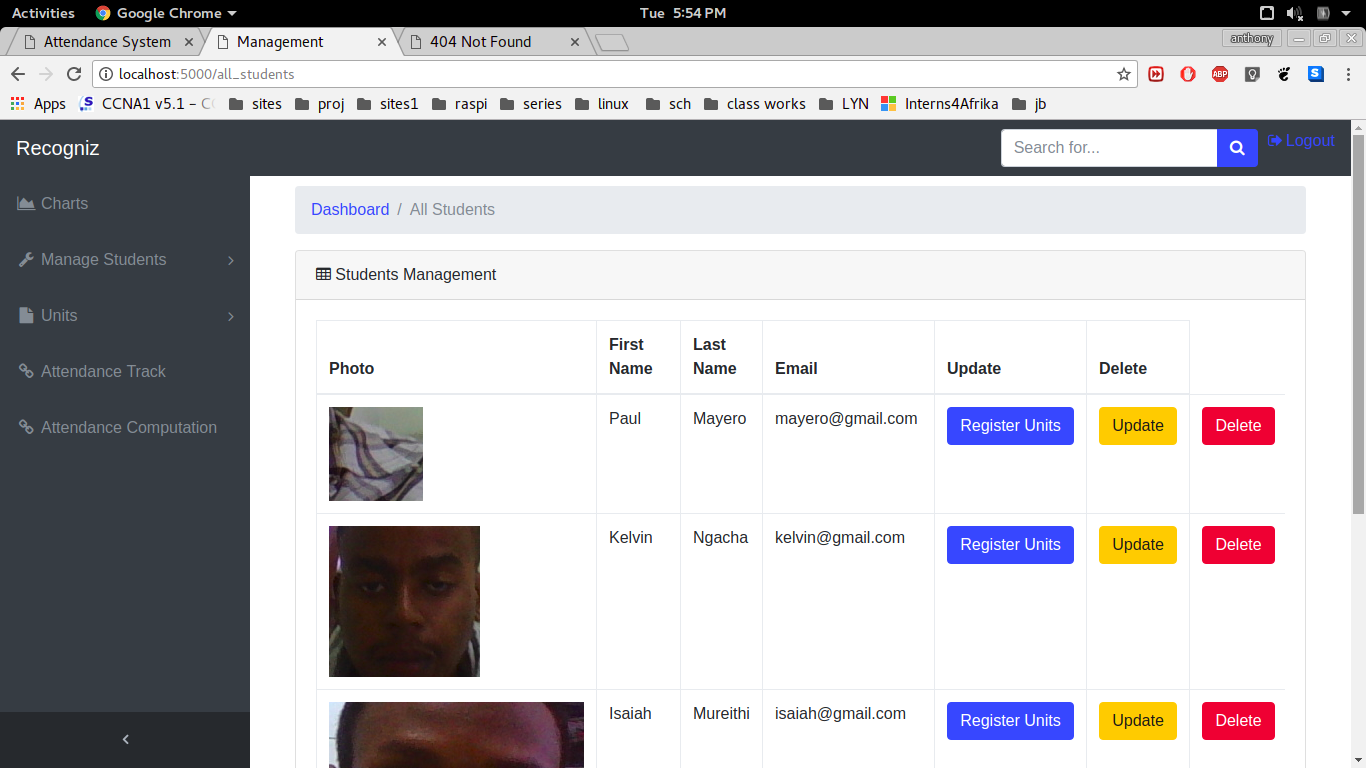
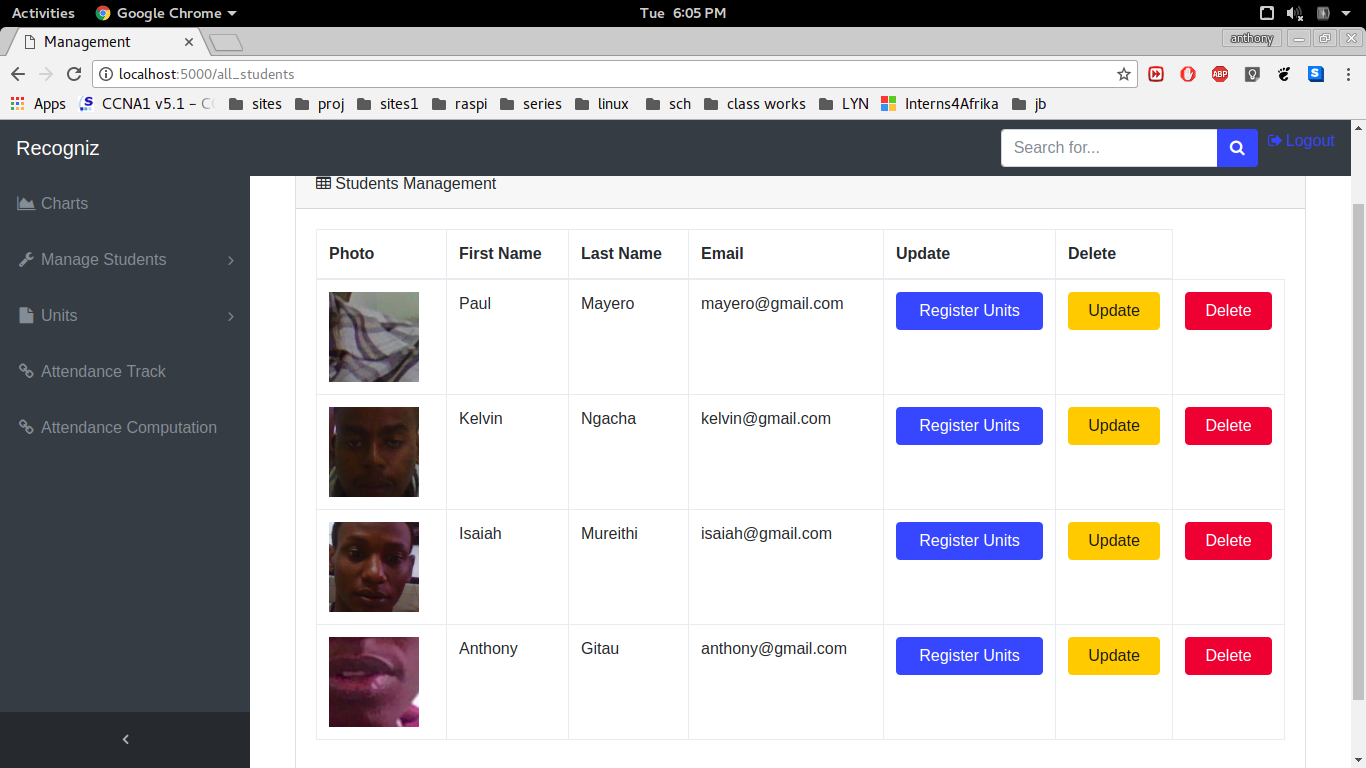
Landing Page

diff --git a/Proj2/app/templates/all_students.html b/Proj2/app/templates/all_students.html
@@ -54,7 +54,7 @@
                 <tbody>
                 {% for student in students %}
                   <tr>
-                    <td> <img src="/image/User.{{student.id}}.1.png"></td>
+                    <td> <img src="/image/User.{{student.id}}.1.png" style="width:90px;height:90px;"></td>
                     <td> {{ student.first_name }}</td>
                     <td> {{ student.last_name }} </td>
                     <td> {{ student.email }} </td>
